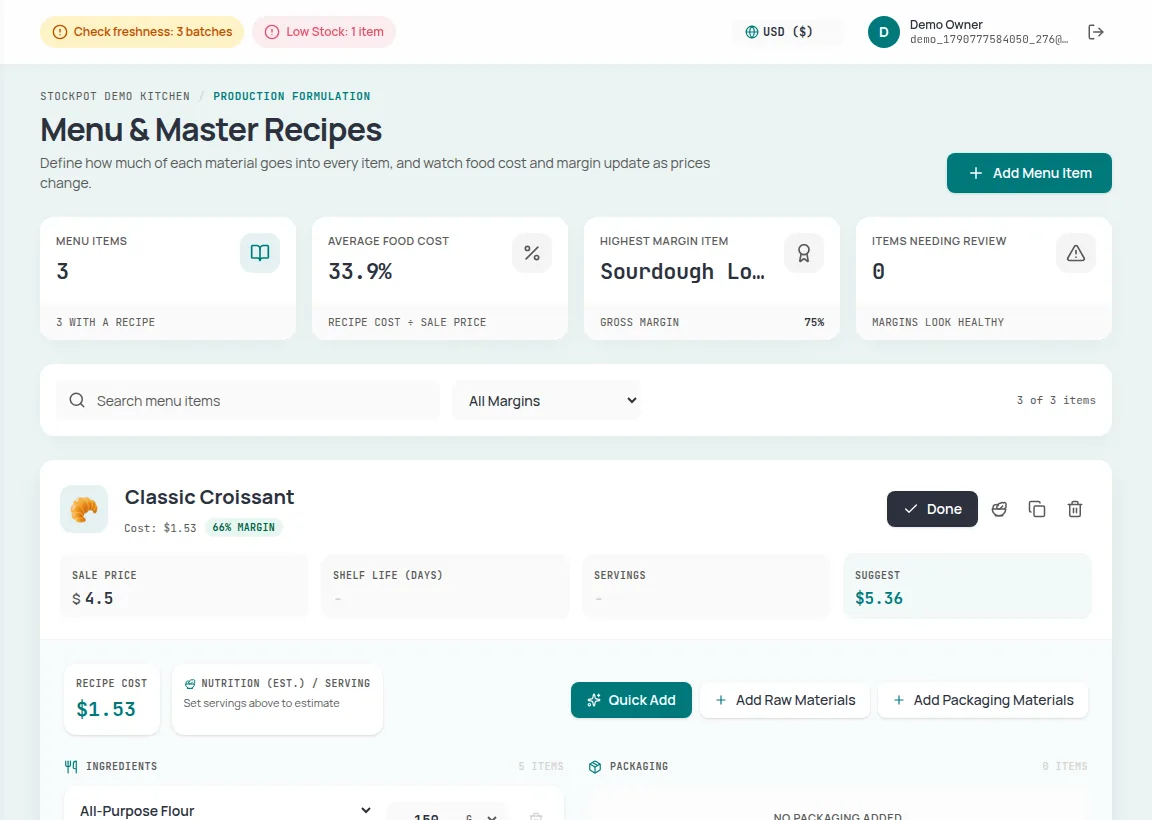
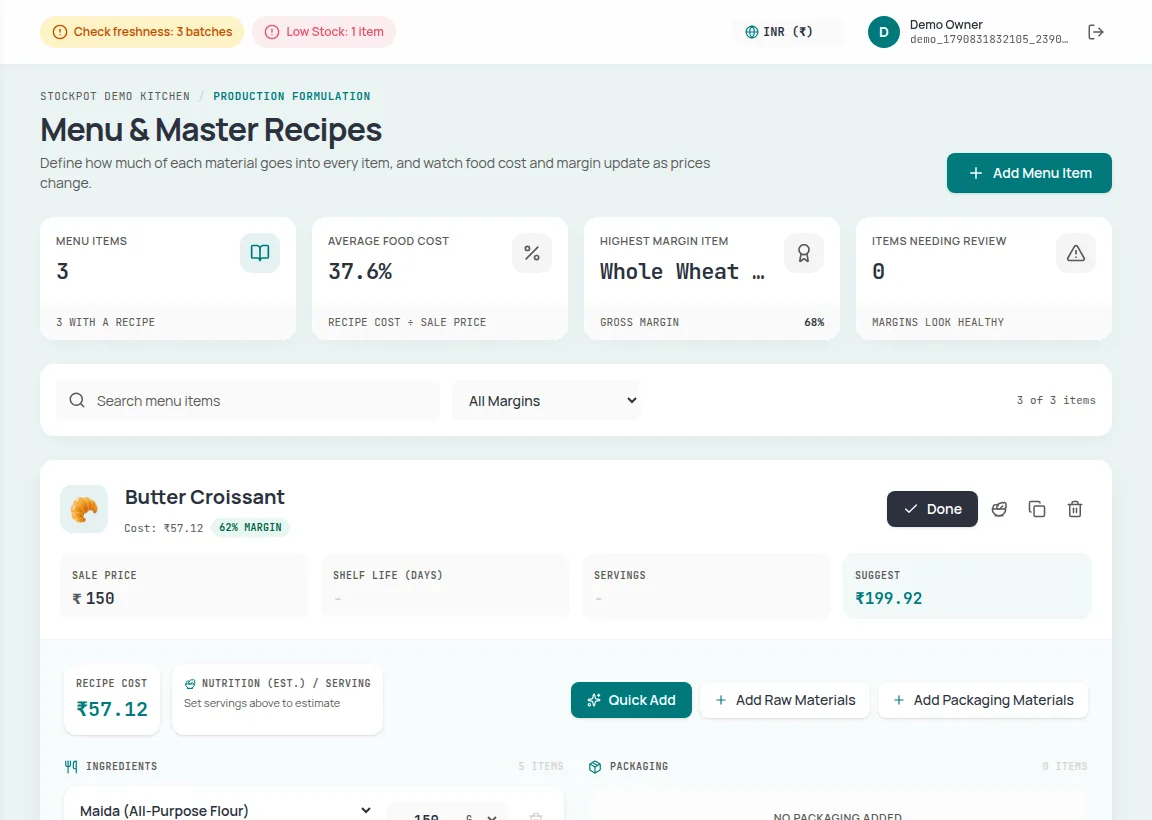
India-first: Indian demo data, INR default, Rs.1200/month pricing (#25)
* Make the demo sandbox an Indian bakery

Stockpot is focused on India for now. The demo now uses INR with GST on
(5%, inclusive), typical Indian ingredient and menu prices, a Bengaluru
address, Indian customer names and +91 phone numbers, an atta loaf in place
of the sourdough, and an atta croissant R&D trial. All dependent figures are
still derived; tests updated, and the landing-page screenshots are retaken.

Claude-Session: https://claude.ai/code/session_0119maDkaTz4Zs1e7v5ERB2f

* Demo without GST, INR as the default currency, price Rs.1200/month

The demo no longer switches GST on. INR is now the first (default) currency
for every account. The landing-page pricing card reads Rs.1200 / month, and
the ten landing screenshots are retaken (the GST one with GST switched on).

Claude-Session: https://claude.ai/code/session_0119maDkaTz4Zs1e7v5ERB2f

---------

diff --git a/src/utils/demoData.ts b/src/utils/demoData.ts
@@ -49,22 +49,25 @@ export function buildDemoData(userId: string, today: string) {
 
   // ── Materials: what was bought (opening stock), price, and alert level ─────
   // Current stock is worked out below from what the production runs used.
+  // Prices are typical Indian retail/wholesale rates in rupees, per gram / ml / piece.
   const purchases = [
-    { id: 'm_flour', name: 'All-Purpose Flour', unit: 'g', bought: 60000, costPerUnit: 0.002, category: 'Raw Materials', threshold: 10000 },
-    { id: 'm_sugar', name: 'Granulated Sugar', unit: 'g', bought: 25000, costPerUnit: 0.0015, category: 'Raw Materials', threshold: 5000 },
-    { id: 'm_butter', name: 'Unsalted Butter', unit: 'g', bought: 12000, costPerUnit: 0.012, category: 'Raw Materials', threshold: 2000 },
-    { id: 'm_eggs', name: 'Large Eggs', unit: 'pcs', bought: 150, costPerUnit: 0.25, category: 'Raw Materials', threshold: 30 },
-    { id: 'm_milk', name: 'Whole Milk', unit: 'ml', bought: 20000, costPerUnit: 0.0012, category: 'Raw Materials', threshold: 4000 },
+    { id: 'm_flour', name: 'Maida (All-Purpose Flour)', unit: 'g', bought: 60000, costPerUnit: 0.045, category: 'Raw Materials', threshold: 10000 }, // ₹45/kg
+    { id: 'm_atta', name: 'Whole Wheat Atta', unit: 'g', bought: 40000, costPerUnit: 0.048, category: 'Raw Materials', threshold: 5000 }, // ₹48/kg
+    { id: 'm_sugar', name: 'Sugar', unit: 'g', bought: 25000, costPerUnit: 0.048, category: 'Raw Materials', threshold: 5000 }, // ₹48/kg
+    { id: 'm_butter', name: 'Unsalted Butter', unit: 'g', bought: 12000, costPerUnit: 0.57, category: 'Raw Materials', threshold: 2000 }, // ₹570/kg
+    { id: 'm_eggs', name: 'Eggs', unit: 'pcs', bought: 150, costPerUnit: 7, category: 'Raw Materials', threshold: 30 }, // ₹7 each
+    { id: 'm_milk', name: 'Full Cream Milk', unit: 'ml', bought: 20000, costPerUnit: 0.068, category: 'Raw Materials', threshold: 4000 }, // ₹68/litre
     // Deliberately runs low so the demo shows a Low Stock alert.
-    { id: 'm_yeast', name: 'Active Dry Yeast', unit: 'g', bought: 1000, costPerUnit: 0.05, category: 'Raw Materials', threshold: 300 },
-    { id: 'm_chips', name: 'Chocolate Chips', unit: 'g', bought: 8000, costPerUnit: 0.008, category: 'Raw Materials', threshold: 1500 },
-    { id: 'm_box', name: 'Packaging Box', unit: 'pcs', bought: 300, costPerUnit: 0.50, category: 'Packaging Materials', threshold: 50 },
+    { id: 'm_yeast', name: 'Instant Dry Yeast', unit: 'g', bought: 900, costPerUnit: 0.7, category: 'Raw Materials', threshold: 300 }, // ₹700/kg
+    { id: 'm_chips', name: 'Chocolate Chips', unit: 'g', bought: 8000, costPerUnit: 0.6, category: 'Raw Materials', threshold: 1500 }, // ₹600/kg
+    { id: 'm_box', name: 'Bakery Box', unit: 'pcs', bought: 300, costPerUnit: 12, category: 'Packaging Materials', threshold: 50 }, // ₹12 each
   ];
+
 
   // ── Menu: recipes are per single unit ──────────────────────────────────────
   const menuBase = [
     {
-      id: 'menu_croissant', name: 'Classic Croissant', sellingPrice: 4.50, emoji: '🥐',
+      id: 'menu_croissant', name: 'Butter Croissant', sellingPrice: 150, emoji: '🥐',
       recipe: [
         { materialId: 'm_flour', amount: 150, unit: 'g' },
         { materialId: 'm_sugar', amount: 15, unit: 'g' },
@@ -74,24 +77,27 @@ export function buildDemoData(userId: string, today: string) {
       ],
     },
     {
-      id: 'menu_muffin', name: 'Chocolate Muffin', sellingPrice: 3.75, emoji: '🧁',
+      id: 'menu_muffin', name: 'Chocolate Muffin', sellingPrice: 120, emoji: '🧁',
       recipe: [
         { materialId: 'm_flour', amount: 120, unit: 'g' },
-        { materialId: 'm_sugar', amount: 80, unit: 'g' },
-        { materialId: 'm_butter', amount: 50, unit: 'g' },
+        { materialId: 'm_sugar', amount: 60, unit: 'g' },
+        { materialId: 'm_butter', amount: 30, unit: 'g' },
         { materialId: 'm_eggs', amount: 1, unit: 'pcs' },
         { materialId: 'm_milk', amount: 60, unit: 'ml' },
-        { materialId: 'm_chips', amount: 40, unit: 'g' },
+        { materialId: 'm_chips', amount: 25, unit: 'g' },
       ],
     },
     {
-      id: 'menu_sourdough', name: 'Sourdough Loaf', sellingPrice: 6.00, emoji: '🍞',
+      id: 'menu_bread', name: 'Whole Wheat Atta Loaf', sellingPrice: 90, emoji: '🍞',
       recipe: [
-        { materialId: 'm_flour', amount: 500, unit: 'g' },
-        { materialId: 'm_yeast', amount: 10, unit: 'g' },
+        { materialId: 'm_atta', amount: 400, unit: 'g' },
+        { materialId: 'm_flour', amount: 100, unit: 'g' },
+        { materialId: 'm_sugar', amount: 15, unit: 'g' },
+        { materialId: 'm_yeast', amount: 6, unit: 'g' },
       ],
     },
   ];
+
 
   const recipeUnitCost = (menuId: string) => {
     const item = menuBase.find(m => m.id === menuId)!;
@@ -104,22 +110,22 @@ export function buildDemoData(userId: string, today: string) {
   // ── Orders (one per customer) ──────────────────────────────────────────────
   const orderRows: [string, number, number, string, string][] = [
     // [menu item, quantity, days ago, customer, phone]
-    ['menu_croissant', 8, 0, 'John Smith', '555-0101'],
-    ['menu_muffin', 12, 0, 'Alice Green', '555-0102'],
-    ['menu_sourdough', 4, 0, 'Robert Vance', '555-0103'],
-    ['menu_croissant', 15, 1, 'Cafe Central', '555-0201'],
-    ['menu_muffin', 8, 1, 'David Lee', '555-0202'],
-    ['menu_sourdough', 6, 1, 'Emily Davis', '555-0203'],
-    ['menu_croissant', 6, 2, 'Local Inn', '555-0301'],
-    ['menu_muffin', 10, 2, 'Bake Fanatic', '555-0302'],
-    ['menu_sourdough', 8, 3, 'George Miller', '555-0401'],
-    ['menu_croissant', 12, 3, 'Sarah Connor', '555-0402'],
-    ['menu_muffin', 14, 4, 'Kevin Hart', '555-0501'],
-    ['menu_croissant', 5, 4, 'Office Gathering', '555-0502'],
-    ['menu_sourdough', 10, 5, 'Daily Grind', '555-0601'],
-    ['menu_croissant', 10, 5, 'Hotel Continental', '555-0602'],
-    ['menu_muffin', 15, 6, 'School Event', '555-0701'],
-    ['menu_sourdough', 5, 6, 'Community Center', '555-0702'],
+    ['menu_croissant', 8, 0, 'Priya Sharma', '+91 98450 10101'],
+    ['menu_muffin', 12, 0, 'Rohan Mehta', '+91 98450 10102'],
+    ['menu_bread', 4, 0, 'Sunita Iyer', '+91 98450 10103'],
+    ['menu_croissant', 15, 1, 'Brew & Bite Café', '+91 98860 20201'],
+    ['menu_muffin', 8, 1, 'Arjun Nair', '+91 98860 20202'],
+    ['menu_bread', 6, 1, 'Kavita Reddy', '+91 98860 20203'],
+    ['menu_croissant', 6, 2, 'Hotel Sai Residency', '+91 99001 30301'],
+    ['menu_muffin', 10, 2, 'Tapri Corner Café', '+91 99001 30302'],
+    ['menu_bread', 8, 3, 'Imran Qureshi', '+91 99720 40401'],
+    ['menu_croissant', 12, 3, 'Neha Gupta', '+91 99720 40402'],
+    ['menu_muffin', 14, 4, 'Vikram Singh', '+91 97420 50501'],
+    ['menu_croissant', 5, 4, 'Infosys Road Office Party', '+91 97420 50502'],
+    ['menu_bread', 10, 5, 'Daily Fresh Grocers', '+91 90350 60601'],
+    ['menu_croissant', 10, 5, 'Hotel Udupi Grand', '+91 90350 60602'],
+    ['menu_muffin', 15, 6, 'Greenfield School Fete', '+91 80410 70701'],
+    ['menu_bread', 5, 6, 'Residents Welfare Association', '+91 80410 70702'],
   ];
   const orders: DemoOrder[] = orderRows.map(([menuItemId, quantity, daysAgo, customerName, customerPhone], i) => ({
     id: `ord_${i + 1}`, menuItemId, quantity, date: at(daysAgo), customerName, customerPhone,
@@ -130,13 +136,13 @@ export function buildDemoData(userId: string, today: string) {
   const runRows: [string, string, number, number | undefined, number, number][] = [
     ['run_1', 'menu_croissant', 30, undefined, 6, 2],
     ['run_2', 'menu_muffin', 30, undefined, 6, 3],
-    ['run_3', 'menu_sourdough', 15, undefined, 6, 2],
+    ['run_3', 'menu_bread', 15, undefined, 6, 2],
     ['run_4', 'menu_croissant', 20, undefined, 4, 2],
     ['run_5', 'menu_muffin', 20, 19, 4, 3], // one muffin lost at the bench
-    ['run_6', 'menu_sourdough', 15, undefined, 4, 2],
+    ['run_6', 'menu_bread', 15, undefined, 4, 2],
     ['run_7', 'menu_croissant', 25, undefined, 1, 2],
     ['run_8', 'menu_muffin', 25, undefined, 2, 3],
-    ['run_9', 'menu_sourdough', 15, undefined, 2, 2],
+    ['run_9', 'menu_bread', 15, undefined, 2, 2],
   ];
 
   // Units ordered per item are taken from the oldest batches first (FIFO).
@@ -195,25 +201,26 @@ export function buildDemoData(userId: string, today: string) {
   const experiments = [
     {
       id: 'exp_1',
-      name: 'Gluten-Free Croissant Attempt',
+      name: 'Atta Croissant Trial',
       date: at(2),
       materials: [
-        { materialId: 'm_flour', amount: 200, unit: 'g' },
+        { materialId: 'm_atta', amount: 200, unit: 'g' },
         { materialId: 'm_sugar', amount: 20, unit: 'g' },
         { materialId: 'm_butter', amount: 80, unit: 'g' },
       ],
-      notes: 'Tried replacing AP Flour with almond flour. Dough was too crumbly, did not rise well. Tastes good but texture is off.',
+      notes: 'Tried replacing maida with whole wheat atta. Layers did not separate well and the crumb was dense. Tastes good but the texture is off.',
     },
   ];
+
 
   const settings = {
     name: 'Stockpot Demo Kitchen',
     logo: '',
     primaryColor: '#10b981',
-    address: '123 Market Street, Foodville',
-    phone: '555-0199',
+    address: '14, 80 Feet Road, Indiranagar, Bengaluru 560038',
+    phone: '+91 98450 00199',
     email: `${userId}@demo.stockpot.app`,
-    currency: { code: 'USD', symbol: '$' },
+    currency: { code: 'INR', symbol: '₹' },
     categories: ['Raw Materials', 'Packaging Materials'],
   };
 

diff --git a/src/utils/__tests__/demoData.test.ts b/src/utils/__tests__/demoData.test.ts
@@ -23,19 +23,21 @@ describe('demo data adds up', () => {
     for (const r of demo.productionRuns) expect(demo.menu.some(m => m.id === r.recipeId)).toBe(true);
   });
 
-  it('prices a croissant at 1.5325 of materials, worked out by hand', () => {
-    // 150g flour x 0.002 + 15g sugar x 0.0015 + 75g butter x 0.012 + 50ml milk x 0.0012 + 5g yeast x 0.05
-    expect(recipeCost('menu_croissant')).toBeCloseTo(0.3 + 0.0225 + 0.9 + 0.06 + 0.25, 6);
-    expect(recipeCost('menu_croissant')).toBeCloseTo(1.5325, 6);
-    expect(recipeCost('menu_sourdough')).toBeCloseTo(1.5, 6); // 500g flour + 10g yeast
+  it('prices a croissant at ₹57.12 of materials, worked out by hand', () => {
+    // 150g maida x 0.045 + 15g sugar x 0.048 + 75g butter x 0.57 + 50ml milk x 0.068 + 5g yeast x 0.7
+    expect(recipeCost('menu_croissant')).toBeCloseTo(6.75 + 0.72 + 42.75 + 3.4 + 3.5, 6);
+    expect(recipeCost('menu_croissant')).toBeCloseTo(57.12, 6);
+    // 400g atta x 0.048 + 100g maida x 0.045 + 15g sugar x 0.048 + 6g yeast x 0.7
+    expect(recipeCost('menu_bread')).toBeCloseTo(19.2 + 4.5 + 0.72 + 4.2, 6);
+    expect(recipeCost('menu_bread')).toBeCloseTo(28.62, 6);
   });
 
   it('costs every production run at quantity produced x recipe cost', () => {
     for (const run of demo.productionRuns) {
       expect(run.costTotal).toBeCloseTo(run.quantityProduced * recipeCost(run.recipeId), 1);
     }
-    // 25 croissants: about 38.31, not thousands
-    expect(byId(demo.productionRuns, 'run_7').costTotal).toBe(38.31);
+    // 25 croissants at ₹57.12 each
+    expect(byId(demo.productionRuns, 'run_7').costTotal).toBe(1428);
   });
 
   it('shelf stock is units made (after waste) minus units ordered, and matches the batches', () => {
@@ -44,7 +46,7 @@ describe('demo data adds up', () => {
     expect(ordered('menu_croissant')).toBe(56);
     expect(byId(demo.menu, 'menu_croissant').finishedGoodsStock).toBe(75 - 56);
     expect(byId(demo.menu, 'menu_muffin').finishedGoodsStock).toBe(74 - 59); // 30 + 19 (one lost) + 25 made
-    expect(byId(demo.menu, 'menu_sourdough').finishedGoodsStock).toBe(45 - 33);
+    expect(byId(demo.menu, 'menu_bread').finishedGoodsStock).toBe(45 - 33);
     for (const item of demo.menu) {
       expect(item.finishedGoodsStock).toBe(produced(item.id) - ordered(item.id));
       const left = sum(demo.productionRuns.filter(r => r.recipeId === item.id).map(r => r.remainingQuantity));
@@ -79,11 +81,13 @@ describe('demo data adds up', () => {
       const req = byId(demo.menu, run.recipeId).recipe.find(r => r.materialId === materialId);
       return req ? convertAmount(req.amount, req.unit, byId(demo.materials, materialId).unit) * run.quantityProduced : 0;
     }));
-    // flour: 75 croissants x 150g + 75 muffins x 120g + 45 loaves x 500g = 42,750g of 60,000g bought
-    expect(used('m_flour')).toBe(42750);
-    expect(byId(demo.materials, 'm_flour').initialStock).toBe(60000 - 42750);
-    // yeast: 75 x 5g + 45 x 10g = 825g of 1,000g bought
-    expect(byId(demo.materials, 'm_yeast').initialStock).toBe(1000 - 825);
+    // maida: 75 croissants x 150g + 75 muffins x 120g + 45 loaves x 100g = 24,750g of 60,000g bought
+    expect(used('m_flour')).toBe(24750);
+    expect(byId(demo.materials, 'm_flour').initialStock).toBe(60000 - 24750);
+    // atta: 45 loaves x 400g = 18,000g of 40,000g bought
+    expect(byId(demo.materials, 'm_atta').initialStock).toBe(40000 - 18000);
+    // yeast: 75 x 5g + 45 x 6g = 645g of 900g bought
+    expect(byId(demo.materials, 'm_yeast').initialStock).toBe(900 - 645);
     // eggs: one per muffin, all 75 baked (the lost muffin still used its egg)
     expect(byId(demo.materials, 'm_eggs').initialStock).toBe(150 - 75);
     // packaging is not part of any recipe, so untouched
@@ -112,6 +116,20 @@ describe('demo data adds up', () => {
     for (const item of demo.menu) {
       const margin = (item.sellingPrice - recipeCost(item.id)) / item.sellingPrice;
       expect(margin).toBeGreaterThan(0.5);
+    }
+  });
+
+  it('is set up for an Indian business: rupees (GST off), and rupee-scale prices', () => {
+    expect(demo.settings.currency).toEqual({ code: 'INR', symbol: '₹' });
+    expect((demo.settings as any).gstApplicable).toBeFalsy();
+    expect(demo.settings.phone).toMatch(/^\+91 /);
+    for (const o of demo.orders) expect(o.customerPhone).toMatch(/^\+91 /);
+    // typical Indian retail prices: staples cost tens of rupees a kilo, butter hundreds
+    expect(byId(demo.materials, 'm_flour').costPerUnit * 1000).toBeCloseTo(45, 6);
+    expect(byId(demo.materials, 'm_butter').costPerUnit * 1000).toBeCloseTo(570, 6);
+    for (const item of demo.menu) {
+      expect(item.sellingPrice).toBeGreaterThanOrEqual(50);
+      expect(item.sellingPrice).toBeLessThanOrEqual(300);
     }
   });
 

diff --git a/src/__tests__/demoSandbox.test.tsx b/src/__tests__/demoSandbox.test.tsx
@@ -63,7 +63,7 @@ describe('Demo sandbox', () => {
     const docs = (kind: string) => [...fake.current.store.entries()].filter(([k]) => k.includes(`/${kind}/`)).map(([, v]) => v as any);
     const [materials, menu, orders, runs, experiments] = ['materials', 'menu', 'orders', 'productionRuns', 'experiments'].map(docs);
     const sum = (xs: number[]) => xs.reduce((a, b) => a + b, 0);
-    const money = (n: number) => `$${n.toLocaleString(undefined, { minimumFractionDigits: 2, maximumFractionDigits: 2 })}`;
+    const money = (n: number) => `₹${n.toLocaleString(undefined, { minimumFractionDigits: 2, maximumFractionDigits: 2 })}`;
     const valueOf = (label: string) => screen.getByText(label).nextElementSibling?.textContent;
     const open = async (nav: RegExp, heading: string) => {
       fireEvent.click(screen.getAllByRole('button', { name: nav })[0]);
@@ -91,7 +91,7 @@ describe('Demo sandbox', () => {
     const value = sum(materials.map((m: any) => Math.max(m.initialStock - projectedUse(m.id), 0) * m.costPerUnit));
     expect(screen.getByText('Raw Inventory Value').closest('div.surface-card')?.textContent).toContain(money(value));
     const low = materials.filter((m: any) => m.threshold > 0 && m.initialStock - projectedUse(m.id) <= m.threshold);
-    expect(low.map((m: any) => m.name)).toEqual(['Active Dry Yeast']);
+    expect(low.map((m: any) => m.name)).toEqual(['Instant Dry Yeast']);
     expect(screen.getByText('Under Threshold').closest('div.surface-card')?.textContent).toContain('1 SKU');
 
     // Dashboard (today): income - materials used = net profit

diff --git a/src/App.tsx b/src/App.tsx
@@ -325,7 +325,7 @@ import { getExperimentMaterialUsage } from './utils/experimentMaterialUsage';
 import { ALLERGEN_TAGS } from './utils/nutritionCalculations';
 export { UNIT_CONVERSIONS, convertAmount, CURRENCIES };
 
-/** Supported display currencies. The first entry (USD) is the default. */
+/** Supported display currencies. The first entry (INR) is the default. */
 // CURRENCIES moved to ./utils/conversions.ts alongside UNIT_CONVERSIONS/convertAmount.
 
 // ─── Root Component ─────────────────────────────────────────────────────────────
@@ -628,7 +628,7 @@ function BakeryApp() {
    * Seeds realistic demo data for a newly created demo user in Firestore.
    * Sets up settings, materials, menu items, sales orders, production runs, and R&D sessions.
    * Uses a single atomic writeBatch to ensure all writes complete together.
-   * Default currency is set to USD (US Dollar, code: 'USD', symbol: '$').
+   * Default currency is set to INR (Indian Rupee, code: 'INR', symbol: '₹').
    * The data itself lives in utils/demoData.ts, where every dependent number
    * (batch costs, ingredient and shelf stock) is derived so the demo adds up.
    */

diff --git a/src/utils/conversions.ts b/src/utils/conversions.ts
@@ -46,13 +46,13 @@ export function convertAmount(amount: number, fromUnit: string, toUnit: string):
   return conversion !== undefined ? amount * conversion : amount;
 }
 
-/** Supported display currencies. The first entry (USD) is the default. */
+/** Supported display currencies. The first entry (INR) is the default. */
 export const CURRENCIES = [
+  { code: 'INR', symbol: '₹' },
   { code: 'USD', symbol: '$' },
   { code: 'EUR', symbol: '€' },
   { code: 'GBP', symbol: '£' },
   { code: 'JPY', symbol: '¥' },
-  { code: 'INR', symbol: '₹' },
   { code: 'CAD', symbol: 'CA$' },
   { code: 'AUD', symbol: 'A$' },
 ];

diff --git a/src/__tests__/LandingPage.test.tsx b/src/__tests__/LandingPage.test.tsx
@@ -28,6 +28,13 @@ describe('LandingPage', () => {
     expect(screen.getByRole('link', { name: /privacy policy/i }).getAttribute('href')).toBe('/privacy');
   });
 
+  it('shows the monthly price in rupees', () => {
+    const { container } = renderPage();
+    expect(container.textContent).toContain('Rs.1200');
+    expect(container.textContent).toContain('/ month');
+    expect(container.textContent).not.toMatch(/\$\d/);
+  });
+
   it('is honest that a card is required for the trial', () => {
     const { container } = renderPage();
     const text = container.textContent ?? '';

diff --git a/src/LandingPage.tsx b/src/LandingPage.tsx
@@ -16,7 +16,7 @@ import {
  * card is required and never "no credit card". The monthly price is defined
  * once here; it must equal the Stripe price in STRIPE_PRICE_ID.
  */
-const PRICE = { symbol: '$', amount: '24', period: 'month' };
+const PRICE = { symbol: 'Rs.', amount: '1200', period: 'month' };
 const TRIAL_DAYS = 14;
 
 const DISPLAY = "font-['Space_Grotesk',ui-sans-serif,system-ui,sans-serif]";

diff --git a/docs/CHANGELOG.md b/docs/CHANGELOG.md
@@ -1,5 +1,30 @@
 # Changelog
 
+## Demo sandbox: India-specific data
+
+Stockpot is focused on the Indian market for now, so the demo sandbox is now an
+Indian bakery (`src/utils/demoData.ts`):
+
+- **Rupees.** Currency is INR (₹). GST is left off in the demo (it can still
+  be switched on in Settings). The business address and phone are in
+  Bengaluru (+91), and customers have Indian names and +91 phone numbers.
+- **Typical Indian prices** (per kg unless noted): maida ₹45, whole wheat
+  atta ₹48, sugar ₹48, unsalted butter ₹570, chocolate chips ₹600,
+  instant yeast ₹700, milk ₹68 a litre, eggs ₹7 each, bakery box ₹12.
+- **Menu:** Butter Croissant ₹150, Chocolate Muffin ₹120 and a Whole Wheat
+  Atta Loaf ₹90 (replacing the sourdough loaf), with recipes costed from the
+  prices above (₹57.12, ₹51.46 and ₹28.62 a unit). The R&D experiment is now
+  an atta croissant trial and atta is a new raw material.
+- Everything dependent is still derived, so batch costs, stock and shelf
+  stock add up; tests cover the new figures.
+- The ten landing-page screenshots in `public/landing/` were retaken, so they
+  show rupees too; the GST screenshot is taken with GST switched on.
+- **INR is the default currency** for every account (it was USD): it is now the
+  first entry in `CURRENCIES`. Other currencies are still in the selector.
+- **Landing page price is Rs.1200 / month** (was $24). The Stripe price behind
+  `STRIPE_PRICE_ID` must be Rs.1200 / month in INR, or customers will be charged
+  something different from what the page shows.
+
 ## Landing page: price is $24 / month
 
 The pricing card now shows $24 / month (`PRICE` in `src/LandingPage.tsx`),
